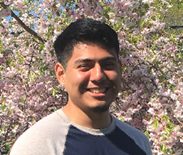
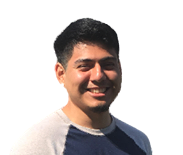
Image resize and break element added

diff --git a/src/app/left/left.component.ts b/src/app/left/left.component.ts
@@ -33,19 +33,19 @@ import { Component, OnInit } from '@angular/core';
     .paragraph{
       text-align: left;
       font-size 20px;
-      font-family: Arial, sans-serif;
     }
 
     .center{
       display:block;
       margin: auto;
-      width: 200px;
-      height: 190px;
+      width: 300px;
+      height: 286px;
       border-radius: 50%;
     }
 
     .text{
       font-size: 15px;
+      font-family: Arial, sans-serif;
     }
 
     .text-color{
